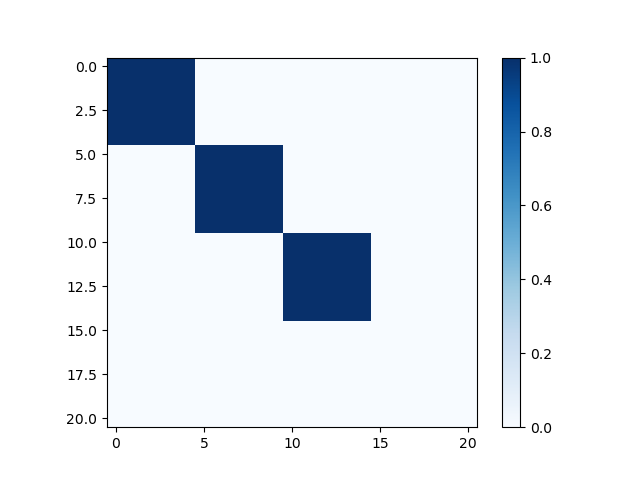
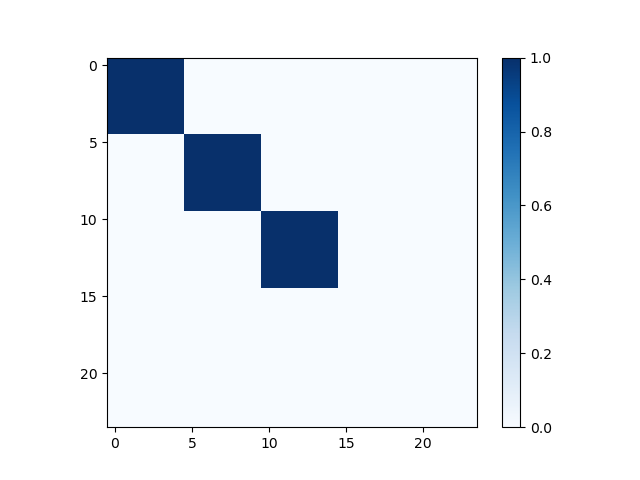
encoding figure update

diff --git a/model/BaseTransformer/base_transformer_individually_AgentAwareAttention.py b/model/BaseTransformer/base_transformer_individually_AgentAwareAttention.py
@@ -97,13 +97,15 @@ class InputEmbedding(nn.Module):
         # print('input emb all', input_emb_all.shape)
 
         """
+        img_path = os.path.join("img", "inp_individually", "encoding")
+        os.makedirs(img_path, exist_ok=True)
         # positional encoding visualization
         te = self.time_encoding(input_emb_all).to("cpu").detach().numpy().copy()
         print("te", te.shape)
         fig = plt.figure()
         plt.imshow(te[0])
         plt.colorbar()
-        plt.savefig("img/time_encoding_input_flattened.png")
+        plt.savefig(f"img/inp_individually/encoding/time_encoding_input_individually_lookback{self.look_back}.png")
 
         # agent encoding visualization
         ae = self.agent_encoding(input_emb_all).to("cpu").detach().numpy().copy()
@@ -111,7 +113,7 @@ class InputEmbedding(nn.Module):
         fig = plt.figure()
         plt.imshow(ae[0])
         plt.colorbar()
-        plt.savefig("img/agent_encoding_input_flattened.png")
+        plt.savefig(f"img/inp_individually/encoding/agent_encoding_input_individually_lookback{self.look_back}.png")
         """
 
         return input_emb_all
@@ -186,12 +188,12 @@ class AgentAwareAttention(nn.Module):
         self.attn_mask = attn_mask.unsqueeze(0).unsqueeze(0)
 
         """
-        img_path = os.path.join("img", "inp_flattened", "attention")
+        img_path = os.path.join("img", "inp_individually", "attention")
         os.makedirs(img_path, exist_ok=True)
         fig = plt.figure()
         plt.imshow(attn_mask, cmap="Blues")
         plt.colorbar()
-        plt.savefig("img/inp_flattened/attention/attention_mask_input_flattened.png")
+        plt.savefig(f"img/inp_individually/attention/attention_mask_input_individually_lookback{self.look_back}.png")
         """
 
     def forward(self, x):

diff --git a/model/BaseTransformer/base_transformer_individually_aete.py b/model/BaseTransformer/base_transformer_individually_aete.py
@@ -97,13 +97,15 @@ class InputEmbedding(nn.Module):
         # print('input emb all', input_emb_all.shape)
 
         """
+        img_path = os.path.join("img", "inp_individually", "encoding")
+        os.makedirs(img_path, exist_ok=True)
         # positional encoding visualization
         te = self.time_encoding(input_emb_all).to("cpu").detach().numpy().copy()
         print("te", te.shape)
         fig = plt.figure()
         plt.imshow(te[0])
         plt.colorbar()
-        plt.savefig("img/time_encoding_input_flattened.png")
+        plt.savefig("img/inp_individually/encoding/time_encoding_input_individually.png")
 
         # agent encoding visualization
         ae = self.agent_encoding(input_emb_all).to("cpu").detach().numpy().copy()
@@ -111,7 +113,7 @@ class InputEmbedding(nn.Module):
         fig = plt.figure()
         plt.imshow(ae[0])
         plt.colorbar()
-        plt.savefig("img/agent_encoding_input_flattened.png")
+        plt.savefig("img/inp_individually/encoding/agent_encoding_input_individually.png")
         """
 
         return input_emb_all

diff --git a/model/BaseTransformer/base_transformer_3types_AgentAwareAttention.py b/model/BaseTransformer/base_transformer_3types_AgentAwareAttention.py
@@ -109,14 +109,14 @@ class InputEmbedding(nn.Module):
         fig = plt.figure()
         plt.imshow(te[0])
         plt.colorbar()
-        plt.savefig("img/inp_3types/encoding/time_encoding_input_3types.png")
+        plt.savefig(f"img/inp_3types/encoding/time_encoding_input_3types_lookback{self.look_back}.png")
         # agent encoding visualization
         ae = self.agent_encoding(x).to("cpu").detach().numpy().copy()
         print("ae", ae.shape)
         fig = plt.figure()
         plt.imshow(ae[0])
         plt.colorbar()
-        plt.savefig("img/inp_3types/encoding/agent_encoding_input_3types.png")
+        plt.savefig(f"img/inp_3types/encoding/agent_encoding_input_3types_lookback{self.look_back}.png")
         """
 
         return x
@@ -197,7 +197,6 @@ class AgentAwareAttention(nn.Module):
         plt.imshow(attn_mask, cmap="Blues")
         plt.colorbar()
         plt.savefig(f"img/inp_3types/attention/attention_mask_input_3types_lookback{self.look_back}.png")
-        print("save fig")
         """
 
     def forward(self, x):

diff --git a/model/BaseTransformer/base_transformer.py b/model/BaseTransformer/base_transformer.py
@@ -36,6 +36,13 @@ class PositionalEmbedding(nn.Module):
         self.register_buffer("pe", pe)
 
     def forward(self, x):
+        img_path = os.path.join("img", "inp_normal", "encoding")
+        os.makedirs(img_path, exist_ok=True)
+        pe = self.pe[:, : x.size(1)].to("cpu").detach().numpy().copy()
+        fig = plt.figure()
+        plt.imshow(pe[0])
+        plt.colorbar()
+        plt.savefig(f"img/inp_normal/encoding/time_encoding_input_norm_lookback{x.size(1)}.png")
         return self.pe[:, : x.size(1)]
 
 
